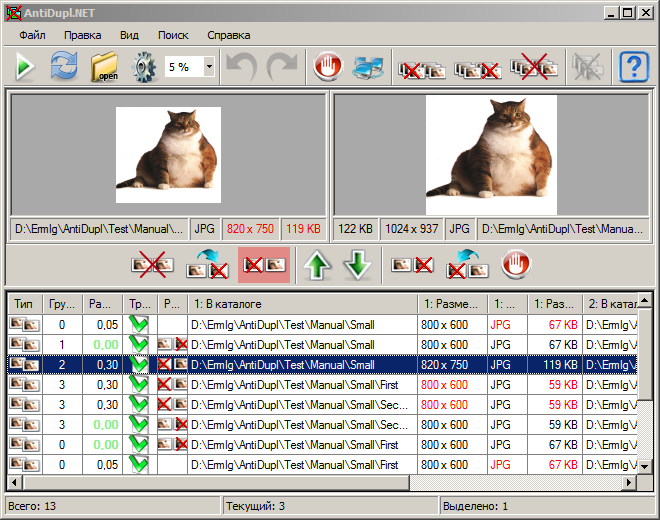
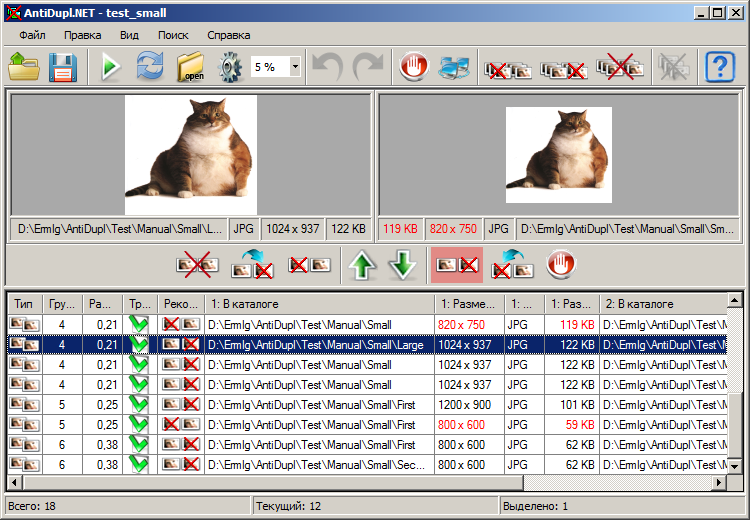
*updated help to version 2.3.1;

diff --git a/trunk/data/help/english/menu.html b/trunk/data/help/english/menu.html
@@ -21,10 +21,12 @@ Menu <b>File</b> contains the following items:
 
 <ul>
  <li><p align="justify">
-<b>Open search profile</b> - clicking on the item you can load a previously saved search profile (search settings, search paths and search results).
+<img src="../../resources/images/ProfileOpenMenu.img" /> <b>Open search profile</b> - clicking on the item you can load a previously saved search profile (search settings, search paths and search results).
+This item is duplicated by button of the <a href="index.html?page=toolbar.html" target="_top">Tool Bar</a>.
  </p></li>
  <li><p align="justify">
-<b>Save search profile as</b> - this item allows you to save your current search profile with a new name.
+<img src="../../resources/images/ProfileSaveAsMenu.img" /> <b>Save search profile as</b> - this item allows you to save your current search profile with a new name.
+This item is duplicated by button of the <a href="index.html?page=toolbar.html" target="_top">Tool Bar</a>.
  </p></li>
  <li><p align="justify">
 <b>Exit</b> - when you click on this point the program will exit.

diff --git a/trunk/data/help/english/developers.html b/trunk/data/help/english/developers.html
@@ -27,7 +27,7 @@ The author expresses his personal thanks to:
 
 <ul>
  <li><p align="justify">
-Vasily Fedoseev for the graphic design for versions <b>1.2.1.0-1.4.0.0, 1.5.2.0-2.3.0</b>.
+Vasily Fedoseev for the graphic design for versions <b>1.2.1.0-1.4.0.0, 1.5.2.0-2.3.1</b>.
  </p></li>
  <li><p align="justify">
 Roberto Corica for the translation into Italian language for versions <b>1.5.3.0-1.6.0.0, 1.8.0.354-1.8.5.379</b>.
@@ -42,7 +42,7 @@ Jinn H. for the translation into Traditional Chinese language for versions <b>1.
 sls463 for the translation into Simplified Chinese language for versions <b>1.8.3.372-1.8.5.379, 2.1.1.466-2.2.6, 2.2.9-2.2.11</b>.
  </p></li>
  <li><p align="justify">
-Kai Evers for the translation into German language for versions <b>1.8.4.375-1.8.5.379, 2.1.0.452-2.2.6, 2.2.11</b>.
+Kai Evers for the translation into German language for versions <b>1.8.4.375-1.8.5.379, 2.1.0.452-2.2.6, 2.2.11, 2.3.1</b>.
  </p></li>
  <li><p align="justify">
 Ki Chun Park for the translation into Korean language for version <b>1.8.5.379</b>.

diff --git a/trunk/data/help/english/news.html b/trunk/data/help/english/news.html
@@ -7,6 +7,43 @@
 
 <h3>Last Updates</h3>
 
+<h3>2.3.1</h3>
+
+<p align=justify>
+There are following changes in the current version:
+</p>
+
+<ul>
+ <li><p align="justify">
+Added translation into Byelorussian.
+ </p></li>
+ <li><p align="justify">
+Added translation into German.
+ </p></li>
+ <li><p align="justify">
+The menu items "Open search profile" and "Save search profile as" was duplicated on the toolbar.
+ </p></li>
+</ul>
+
+<p align="justify">
+Also bugs were fixed:
+</p>
+
+<ul>
+ <li><p align="justify">
+The user can not save a search profile with zero number of results.
+ </p></li>
+ <li><p align="justify">
+The threshold difference in the toolbar was not updated when loading the search profile.
+ </p></li>
+ <li><p align="justify">
+Sometimes the program settings were not saved.
+ </p></li>
+  <li><p align="justify">
+The program can't load the results containing images with defects.
+ </p></li>
+ </ul>
+ 
 <h3>2.3.0</h3>
 
 <p align=justify>

diff --git a/trunk/data/help/english/toolbar.html b/trunk/data/help/english/toolbar.html
@@ -22,6 +22,14 @@ The following buttons are placed there:
 
 <ul>
  <li><p align="justify">
+<img src="../../resources/images/ProfileOpenButton.img" /> <b>Open search profile</b> - 
+clicking on the item you can load a previously saved search profile (search settings, search paths and search results).
+ </p></li>
+ <li><p align="justify">
+<img src="../../resources/images/ProfileSaveAsButton.img" /> <b>Save search profile as</b> - 
+this item allows you to save your current search profile with a new name.
+ </p></li>
+ <li><p align="justify">
 <img src="../../resources/images/StartButton.img" /> <b>Start search</b> - 
 if you click this item then the search will be started. 
  </p></li>

diff --git a/trunk/data/help/english/intro.html b/trunk/data/help/english/intro.html
@@ -20,7 +20,7 @@ In addition, the program can find images with some types of defects.
 
 <p align="justify">
 <b>AntiDupl.NET</b> program is free and open-source software.
-It is simple to use, has high speed and accuracy of work, supports Russian and English interface.
+It is simple to use, has high speed and accuracy of work, supports Russian, Byelorussian, German and English interface.
 </p>
 
 </td></tr></table></body>
